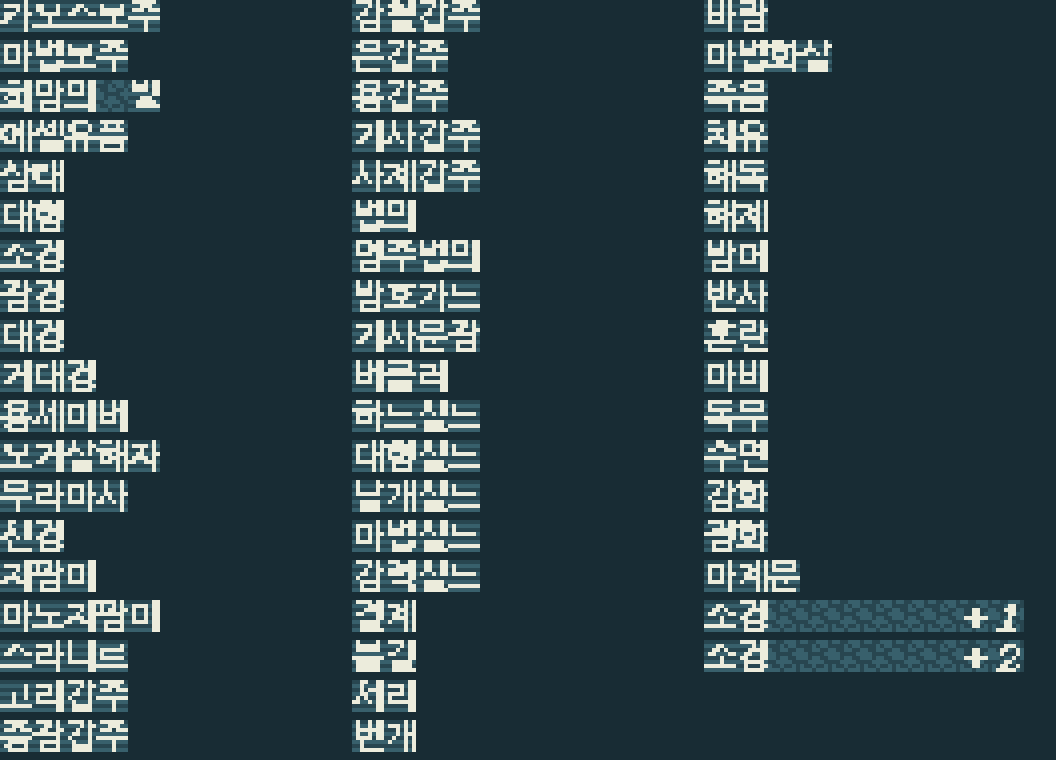
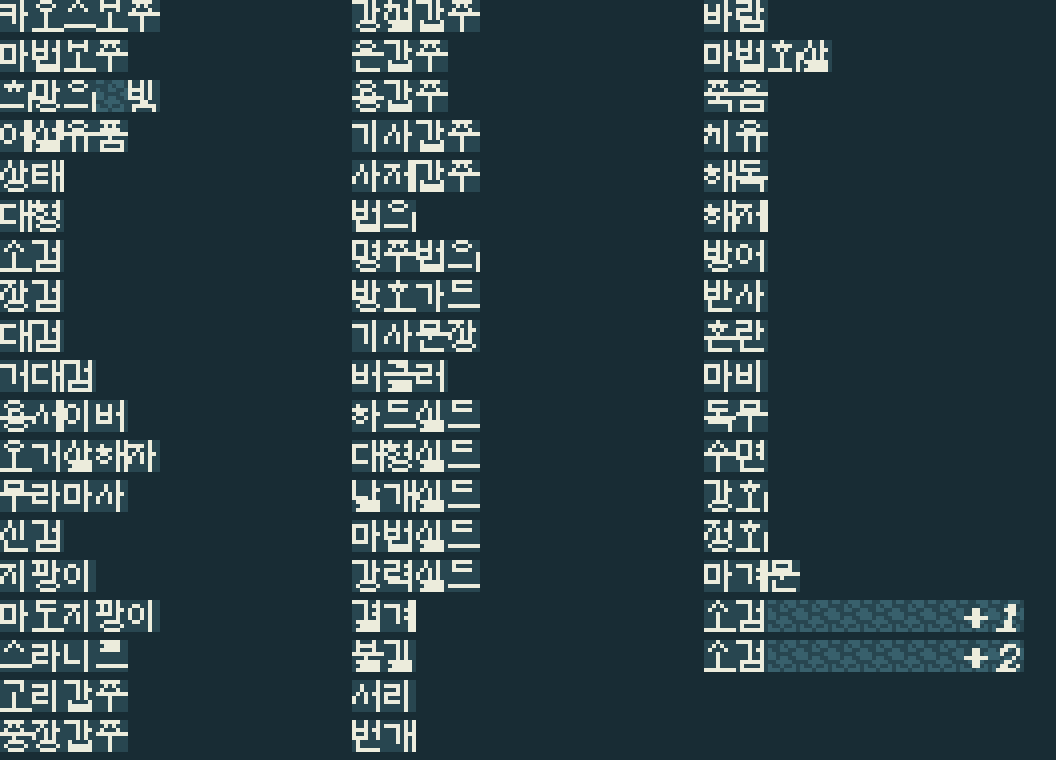
feat: 8x8 자모 조합 글꼴 (hangul8.py) — 목록 창 가독성
「마루것노 안해」는 칸 문제가 아니라 글꼴 문제였다. 「아무것도 안해」다.

TrueType 을 8px 로 내리면 받침 ㅇ 이 두 픽셀 높이라 속공간을 낼 수 없다.
후보 8개(글꼴 4 x 크기 x 문턱)를 실제 이름으로 나란히 그려 봤지만 어느
조합도 못 넘었고, 3x3 채워진 덩어리의 가운데를 뚫는 후처리도 그 덩어리가
2행뿐이라 걸리는 곳이 없었다. 래스터로는 안 되는 문제였다.

- hangul8.py — 초성 두 벌(세로모음용 4x5 / 가로모음용 5x3), 종성 6x3 한 벌.
  받침 유무 x 모음 방향으로 네 꼴 조합. 섞임모음은 가로 부분을 x<6 으로
  자르고 x=7 에 세로줄. 초성 19 · 중성 21 · 종성 27 전부 그렸다.
- 대조: 밤어->방어 · 삼태->상태 · 마루것노->아무것도 · 보두 노맘->모두 도망
  봄세이버->용세이버 · 자팜미->지팡이 · 하느싣느->하드실드 · 곰격하기->공격하기
- 한 번 틀린 자리: ㅡ 의 가로줄을 y0 에 뒀더니 초성 바로 밑에 붙어 「의」가
  ㅇ 에 줄 하나 그은 꼴이 됐다. ㅡ 는 y1-1 이 맞다.
- 배경을 단색으로. 압축이 크게 남아(456/770) 선택지가 넓어졌고, 나란히
  그려 보니 가로줄이 한글 가로획과 섞여 읽기를 방해한다.
- patch_hwfont 의 PIL import 제거 (이제 안 쓴다)

검사 12층 · 역검증 18단 · test_kr 전부 통과. v0.9.2.

Changed region(s): [[0.3125, 0.0, 0.4688, 0.9987], [0.0, 0.0, 0.1562, 0.9987], [0.6562, 0.0, 0.7812, 0.9079]]

diff --git a/darkhalf-kr/hangul8.py b/darkhalf-kr/hangul8.py
@@ -1,0 +1,168 @@
+#!/usr/bin/env python3
+"""8x8 한글 조합 글꼴 — 목록 창(반각)용.
+
+## 왜 손으로 그리나
+
+TrueType 을 8px 로 래스터하면 받침 ㅇ 이 두 픽셀 높이가 되어 속공간을 낼 수
+없다. 「방어」가 「밤어」, 「아무것도」가 「마루것노」로 읽힌다 (PROGRESS
+4.37.7 / 4.40.2). 후보 8개를 재 봤지만 어느 글꼴·문턱으로도 안 됐다.
+
+8x8 은 자모를 직접 그려 조합해야 한다. 옛 도스 한글 8x8 이 쓰던 방식이다.
+
+## 배치
+
+세로모음(ㅏㅐㅑㅒㅓㅔㅕㅖㅣ)과 가로모음(ㅗㅛㅜㅠㅡ)에 따라, 그리고 받침
+유무에 따라 네 꼴이 나온다. 섞임모음(ㅘㅙㅚㅝㅞㅟㅢ)은 가로모음 자리에
+그리고 오른쪽에 세로줄을 세운다.
+
+    V 민글자   초성 (0,1)-(3,5)   중성 x=4..7 전체 높이
+    V 받침     초성 (0,0)-(3,4)   중성 x=4..7 y=0..4   종성 y=5..7
+    H 민글자   초성 (1,0)-(5,2)   중성 y=3..7
+    H 받침     초성 (1,0)-(5,2)   중성 y=3..4          종성 y=5..7
+"""
+import sys, os
+sys.path.insert(0, os.path.dirname(os.path.abspath(__file__)))
+
+CHO  = "ㄱㄲㄴㄷㄸㄹㅁㅂㅃㅅㅆㅇㅈㅉㅊㅋㅌㅍㅎ"
+JUNG = "ㅏㅐㅑㅒㅓㅔㅕㅖㅗㅘㅙㅚㅛㅜㅝㅞㅟㅠㅡㅢㅣ"
+JONG = " ㄱㄲㄳㄴㄵㄶㄷㄹㄺㄻㄼㄽㄾㄿㅀㅁㅂㅄㅅㅆㅇㅈㅊㅋㅌㅍㅎ"
+VOW_V = set("ㅏㅐㅑㅒㅓㅔㅕㅖㅣ")
+VOW_H = set("ㅗㅛㅜㅠㅡ")
+
+def _b(rows): return [r.replace('.', ' ') for r in rows]
+
+# --- 초성: 세로모음용 4x5 ---
+CV = {
+ 'ㄱ': ["####","...#","...#","...#","...#"],
+ 'ㄴ': ["#...","#...","#...","#...","####"],
+ 'ㄷ': ["####","#...","#...","#...","####"],
+ 'ㄹ': ["####","...#","####","#...","####"],
+ 'ㅁ': ["####","#..#","#..#","#..#","####"],
+ 'ㅂ': ["#..#","#..#","####","#..#","####"],
+ 'ㅅ': ["..#.","..#.",".#.#","#..#","#..#"],
+ 'ㅇ': [".##.","#..#","#..#","#..#",".##."],
+ 'ㅈ': ["####","..#.",".#.#","#..#","#..#"],
+ 'ㅊ': [".#..","####",".#.#","#..#","#..#"],
+ 'ㅋ': ["####","...#","####","...#","...#"],
+ 'ㅌ': ["####","#...","####","#...","####"],
+ 'ㅍ': ["####",".#.#",".#.#","####","...."],
+ 'ㅎ': [".#..","####",".##.","#..#",".##."],
+ 'ㄲ': ["####","#.##","#..#","#..#","#..#"],
+ 'ㄸ': ["####","#.#.","#.#.","#.#.","####"],
+ 'ㅃ': ["#.##","#.##","####","#.##","####"],
+ 'ㅆ': [".#.#","#.##","#.##","#.##","#.##"],
+ 'ㅉ': ["####","#.#.",".#.#","#..#","#..#"],
+}
+# --- 초성: 가로모음용 5x3 ---
+CH = {
+ 'ㄱ': ["#####","....#","....#"],
+ 'ㄴ': ["#....","#....","#####"],
+ 'ㄷ': ["#####","#....","#####"],
+ 'ㄹ': ["#####",".####","#####"],
+ 'ㅁ': ["#####","#...#","#####"],
+ 'ㅂ': ["#...#","#####","#...#"],
+ 'ㅅ': ["..#..",".#.#.","#...#"],
+ 'ㅇ': [".###.","#...#",".###."],
+ 'ㅈ': ["#####",".#.#.","#...#"],
+ 'ㅊ': ["..#..","#####","#...#"],
+ 'ㅋ': ["#####","..###","....#"],
+ 'ㅌ': ["#####","####.","#####"],
+ 'ㅍ': ["#####",".#.#.","#####"],
+ 'ㅎ': ["..#..","#####",".#.#."],
+ 'ㄲ': ["##.##",".#..#",".#..#"],
+ 'ㄸ': ["#####","#.#..","#####"],
+ 'ㅃ': ["#.#.#","#####","#####"],
+ 'ㅆ': [".#.#.","#.#.#","#...#"],
+ 'ㅉ': ["#####","#.#.#","#...#"],
+}
+# --- 종성: 6x3 (가운데 정렬) ---
+JG = {
+ 'ㄱ': ["######",".....#",".....#"],
+ 'ㄴ': ["#.....","#.....","######"],
+ 'ㄷ': ["######","#.....","######"],
+ 'ㄹ': ["######",".#####","######"],
+ 'ㅁ': ["######","#....#","######"],
+ 'ㅂ': ["#....#","######","######"],
+ 'ㅅ': ["..##..",".#..#.","#....#"],
+ 'ㅇ': [".####.","#....#",".####."],
+ 'ㅈ': ["######",".#..#.","#....#"],
+ 'ㅊ': ["..##..","######","#....#"],
+ 'ㅋ': ["######","..####",".....#"],
+ 'ㅌ': ["######","#####.","######"],
+ 'ㅍ': ["######",".#..#.","######"],
+ 'ㅎ': ["..##..","######",".####."],
+ 'ㄲ': ["##.###","...#.#","...#.#"],
+ 'ㅆ': [".#..#.","#.##.#","#.#..#"],
+ 'ㄳ': ["###.##","..#.#.","..##.#"],
+ 'ㄵ': ["#..###","#....#","###..#"],
+ 'ㄶ': ["#..#.#","#.####","###.#."],
+ 'ㄺ': ["###.##",".#..-#","###..#"],
+ 'ㄻ': ["###.##",".#.#.#","###.##"],
+ 'ㄼ': ["###..#",".#.###","######"],
+ 'ㄽ': ["###.#.",".#.#.#","###..#"],
+ 'ㄾ': ["###.##",".#.##.","######"],
+ 'ㄿ': ["###.##",".#.#.#","###.##"],
+ 'ㅀ': ["###.#.",".#.###","####.."],
+ 'ㅄ': ["#.#..#","####.#","####.#"],
+}
+
+def _vow(ch, y0, y1, jong):
+    """중성 픽셀 (x,y) 목록. y0..y1 은 쓸 수 있는 세로 범위."""
+    p = []
+    if ch in VOW_V:
+        stem = 6 if ch in "ㅓㅔㅕㅖ" else 5
+        for y in range(y0, y1+1): p.append((stem, y))
+        mid = (y0 + y1) // 2
+        if ch in "ㅏㅐㅑㅒ":
+            b = [mid] if ch in "ㅏㅐ" else [mid-1, mid+1]
+            for yy in b: p += [(stem+1, yy)]
+        if ch in "ㅓㅔㅕㅖ":
+            b = [mid] if ch in "ㅓㅔ" else [mid-1, mid+1]
+            for yy in b: p += [(stem-1, yy)]
+        if ch in "ㅐㅒㅔㅖ":
+            for y in range(y0, y1+1): p.append((7, y))
+        return p
+    if ch in VOW_H:
+        # ㅗㅛ 는 줄이 아래, ㅜㅠ 는 위. ㅡ 는 가운데보다 조금 아래에 둔다 —
+        # y0 에 두면 초성 바로 밑에 붙어 「의」가 ㅇ 에 줄 하나 그은 꼴이 된다.
+        bar = y1 if ch in "ㅗㅛ" else (y0 if ch != 'ㅡ' else max(y0, y1 - 1))
+        for x in range(0, 8): p.append((x, bar))
+        if ch == 'ㅡ': return p
+        stems = [3] if ch in "ㅗㅜ" else [2, 5]
+        for x in stems:
+            for y in ((range(y0, bar)) if ch in "ㅗㅛ" else range(bar+1, y1+1)):
+                p.append((x, y))
+        return p
+    # 섞임 — 가로 부분 + 오른쪽 세로줄
+    base = {'ㅘ':'ㅗ','ㅙ':'ㅗ','ㅚ':'ㅗ','ㅝ':'ㅜ','ㅞ':'ㅜ','ㅟ':'ㅜ','ㅢ':'ㅡ'}[ch]
+    p = [(x, y) for (x, y) in _vow(base, y0, y1, jong) if x < 6]
+    for y in range(y0, y1+1): p.append((7, y))
+    return p
+
+
+def glyph(ch):
+    """8x8 불리언 격자 (행 우선). 한글 음절만."""
+    g = [[False]*8 for _ in range(8)]
+    o = ord(ch) - 0xAC00
+    if not (0 <= o < 11172): return g
+    cho, jung, jong = CHO[o//588], JUNG[(o%588)//28], JONG[o%28]
+    def blit(art, x0, y0):
+        for dy, row in enumerate(art):
+            for dx, c in enumerate(row):
+                if c == '#' and 0 <= x0+dx < 8 and 0 <= y0+dy < 8:
+                    g[y0+dy][x0+dx] = True
+    if jung in VOW_V:
+        if jong == ' ':
+            blit(CV[cho], 0, 1); vy = (0, 7)
+        else:
+            blit(CV[cho], 0, 0); vy = (0, 4)
+        for x, y in _vow(jung, vy[0], vy[1], jong != ' '):
+            if 0 <= x < 8 and 0 <= y < 8: g[y][x] = True
+    else:
+        blit(CH[cho], 1, 0)
+        vy = (3, 7) if jong == ' ' else (3, 4)
+        for x, y in _vow(jung, vy[0], vy[1], jong != ' '):
+            if 0 <= x < 8 and 0 <= y < 8: g[y][x] = True
+    if jong != ' ':
+        blit(JG.get(jong, JG['ㅇ']), 1, 5)
+    return g

diff --git a/darkhalf-kr/patch_hwfont.py b/darkhalf-kr/patch_hwfont.py
@@ -59,7 +59,6 @@
 import sys, os
 sys.path.insert(0, os.path.dirname(os.path.abspath(__file__)))
 import numpy as np
-from PIL import Image, ImageDraw, ImageFont
 import gfx, patch_menu
 
 ENTRY = 0
@@ -71,21 +70,26 @@ BG_CODE = 0x20          # 공백 글리프 = 순수 배경 (확인용)
 INK = 3
 
 # 배경 후보. 앞에서부터 시도해 칸에 들어가는 첫 것을 쓴다.
-BG_KINDS = ("가로줄", "단색")
-
-# 8x8 에 한글을 넣으면 ㅇ·ㅎ 의 속공간이 메워진다. 후보 8개를 실제 이름으로
-# 나란히 그려 골랐다 (malgunbd/malgun/NanumGothic/NanumBarunGothic x 크기 x 문턱).
-# NanumGothic 9px 문턱 60 이 가장 낫다 — 무라마사·독무·죽음·용세이버·마계문·
-# 결계가 제대로 읽힌다. malgunbd 는 「무라마사」가 「부라마사」로, 「오거」가
-# 「모거」로 보였다.
 #
-# 남는 한계: **받침 ㅇ 은 두 픽셀 높이라 속공간을 낼 수 없다.** 그래서 「방어」가
-# 「밤어」, 「강화」가 「감화」, 「상태」가 「삼태」로 보인다. 3x3 이상 채워진
-# 덩어리의 가운데를 뚫는 후처리를 시험했지만 그 덩어리 자체가 2행뿐이라
-# 걸리는 곳이 없었다. 제대로 고치려면 8x8 자모를 손으로 그려 조합해야 한다.
-FONT = "/usr/share/fonts/truetype/nanum/NanumGothic.ttf"
-SIZE = 9
-THR = 60
+# 한때 「가로줄」(행마다 색 1·2 교대)을 먼저 뒀다. 원본 노이즈 디더에 가장
+# 가까우면서 칸에 들어가는 것이 그것뿐이었기 때문이다. 자모 조합으로 바꾸니
+# 「단색」도 넉넉히 들어가고(456/770), **가로줄이 한글의 가로획과 섞여**
+# 읽기를 방해한다는 것이 나란히 그려 보니 분명했다. 단색을 먼저 쓴다.
+BG_KINDS = ("단색", "가로줄")
+
+# 글리프는 **자모를 손으로 그려 조합한다** (hangul8.py).
+#
+# 한때 TrueType 을 8px 로 래스터했다. 후보 8개(malgunbd/malgun/NanumGothic/
+# NanumBarunGothic x 크기 x 문턱)를 실제 이름으로 나란히 그려 NanumGothic
+# 9px/60 을 골랐지만, 어느 조합으로도 **받침 ㅇ 이 두 픽셀 높이라 속공간을
+# 낼 수 없었다.** 「방어」가 「밤어」, 「아무것도」가 「마루것노」, 「모두
+# 도망」이 「보두 노맘」으로 읽혔다 (image/전투화면-선택지깨짐.png).
+#
+# 3x3 이상 채워진 덩어리의 가운데를 뚫는 후처리도 시험했는데, 그 덩어리가
+# 2행뿐이라 걸리는 곳이 아예 없었다. 래스터로는 안 되는 문제였다.
+#
+# 자모 조합으로 바꾸니 전부 살아났다 — 방어 · 상태 · 아무것도 · 모두 도망 ·
+# 지팡이 · 용세이버. 대조는 PROGRESS 4.42.
 
 _bgcache = None
 
@@ -123,15 +127,10 @@ def background(kind):
 
 def render(ch, kind=BG_KINDS[0]):
     """8x8 색인 배열. 배경 위에 색 3 으로 획을 얹는다."""
+    import hangul8
     g = background(kind)
     if ch == " ": return g
-    f = ImageFont.truetype(FONT, SIZE)
-    im = Image.new("L", (8, 8), 0)
-    d = ImageDraw.Draw(im)
-    bb = d.textbbox((0, 0), ch, font=f)
-    d.text(((8 - (bb[2] - bb[0])) / 2 - bb[0],
-            (8 - (bb[3] - bb[1])) / 2 - bb[1]), ch, 255, font=f)
-    g[np.array(im) > THR] = INK
+    g[np.array(hangul8.glyph(ch))] = INK
     return g
 
 

diff --git a/README.md b/README.md
@@ -11,10 +11,10 @@
 
 ---
 
-## 버전 — 현재 `v0.9.1`
+## 버전 — 현재 `v0.9.2`
 
 **완성(모든 화면이 한국어이고 실기 통과)을 `v1.0.0`으로 봅니다.** 지금은
-`v0.9.1` 입니다. 대사·UI·메뉴·오프닝·컷신·아이템/장비/마법 이름은 끝났고,
+`v0.9.2` 입니다. 대사·UI·메뉴·오프닝·컷신·아이템/장비/마법 이름은 끝났고,
 남은 것은 몬스터 이름표와 전체 플레이 검증입니다.
 
 | 영역 | 비중 | 진행 | 남은 일 |
@@ -63,7 +63,7 @@
 | 설정 화면 | 12항목 (`0x2FF706`) — 원문과 칸·바이트 동일, **실기 확인** |
 | 오프닝 컷신 | **23줄 전문** (`0x9ED6E`) — 스프라이트 스크립트, 글리프 83자 |
 | 컷신 「復活節第N日」 | **26줄 전문** (`0x0f0b92`) — BG 타일맵, 16×16 글꼴 90칸, **실기 확인** |
-| 목록 창 (아이템·장비·마법) | **98엔트리 + 메뉴 라벨 전부 단일바이트** — 반각 8×8 폰트 110자 |
+| 목록 창 (아이템·장비·마법) | **98엔트리 + 메뉴 라벨 전부 단일바이트** — 반각 8×8 **자모 조합 글꼴** 110자 |
 | 롬 | 3MB → **4MB** (엔진 패치 기본 적용) |
 | 검사 | 텍스트 **12층** + 삽입 역검증 **18단** + `test_kr` 10군 전부 통과 |
 
@@ -73,7 +73,53 @@
 
 ---
 
-## 최근 작업 (2026-09-10) — 컷신 「復活節第N日」 해결
+## 최근 작업 — 8×8 한글은 자모를 손으로 그려야 했습니다
+
+![목록 한글](image/목록한글.png)
+
+「마루것노 안해」는 칸 문제가 아니라 **글꼴 문제**였습니다 — 「아무것도 안해」가
+그렇게 읽힌 겁니다.
+
+### 래스터로는 안 되는 문제였습니다
+
+TrueType 을 8px 로 내리면 **받침 ㅇ 이 두 픽셀 높이라 속공간을 낼 수 없습니다.**
+후보 8개(malgunbd·malgun·NanumGothic·NanumBarunGothic × 크기 × 문턱)를 실제
+이름으로 나란히 그려 봤지만 어느 조합도 이걸 못 넘었습니다. 3×3 이상 채워진
+덩어리의 가운데를 뚫는 후처리도 시험했는데 **그 덩어리 자체가 2행뿐이라 걸리는
+곳이 아예 없었습니다.**
+
+### 자모를 그려 조합합니다 (`hangul8.py`)
+
+옛 도스 한글 8×8 이 쓰던 방식입니다. 초성은 두 벌만 그립니다 — 세로모음용
+4×5 와 가로모음용 5×3. 종성은 6×3 한 벌. 네 꼴로 조합합니다.
+
+```
+V 민글자   초성 (0,1)-(3,5)   중성 x=4..7 전체 높이
+V 받침     초성 (0,0)-(3,4)   중성 x=4..7 y=0..4   종성 y=5..7
+H 민글자   초성 (1,0)-(5,2)   중성 y=3..7
+H 받침     초성 (1,0)-(5,2)   중성 y=3..4          종성 y=5..7
+```
+
+| | 기존 (TrueType) | 자모 조합 |
+|---|---|---|
+| 방어 | 밤어 | **방어** |
+| 상태 | 삼태 | **상태** |
+| 아무것도 | 마루것노 | **아무것도** |
+| 모두 도망 | 보두 노맘 | **모두 도망** |
+| 용세이버 | 봄세이버 | **용세이버** |
+| 지팡이 | 자팜미 | **지팡이** |
+| 하드실드 | 하느싣느 | **하드실드** |
+| 공격하기 | 곰격하기 | **공격하기** |
+
+### 배경도 단색으로
+
+압축이 크게 남아서(456/770) 선택지가 넓어졌습니다. 나란히 그려 보니 **가로줄이
+한글의 가로획과 섞여** 읽기를 방해합니다. 원본 노이즈 디더와는 멀어지지만 이
+창의 목적은 이름을 읽는 것이라 단색을 먼저 씁니다.
+
+---
+
+## 2026-09-10 — 컷신 「復活節第N日」 해결
 
 ![컷신 한글](image/컷신한글.png)
 
@@ -1124,11 +1170,6 @@
 (그것도 아이템 이름 품질을 통째로 내주는 값입니다). 먼저 전투 화면 한 장으로
 **렌더러가 타일 직접인지** 확정해야 합니다 — 대사 렌더러라면 강제가 아예
 필요 없습니다 (PROGRESS 4.39).
-
-**8×8 한글의 받침 ㅇ** — 두 픽셀 높이라 속공간을 낼 수 없어 「방어」가 「밤어」,
-「강화」가 「감화」로 보입니다. 글꼴·문턱 후보 8개를 실제 이름으로 나란히 그려
-NanumGothic 9px/60 을 골랐지만 이 한계는 남습니다. 제대로 고치려면 8×8 자모를
-손으로 그려 조합해야 합니다.
 
 ---
 

diff --git a/darkhalf-kr/PROGRESS.md b/darkhalf-kr/PROGRESS.md
@@ -3909,3 +3909,72 @@ FFFE <n16> <tile>  이 타일부터 n개를 1씩 증가시키며 쓴다
 
 역검증 **[18]** — 타일맵을 되읽어 한국어와 맞는지 26줄 전부 대조한다.
 `[5]`(허용 영역 밖 변경)에 `cutscene.written_range()` 를 넣었다.
+
+## 4.42 8x8 한글은 자모를 손으로 그려야 한다 (hangul8.py)
+
+`image/전투화면-선택지깨짐.png` 의 「마루것노 안해」는 칸 문제가 아니라
+**글꼴 문제**였다. 「아무것도 안해」가 그렇게 읽힌 것이다.
+
+### 4.42.1 래스터로는 안 되는 문제였다
+
+TrueType 을 8px 로 내리면 **받침 ㅇ 이 두 픽셀 높이라 속공간을 낼 수 없다.**
+
+```
+방어 -> 밤어     강화 -> 감화     상태 -> 삼태
+아무것도 -> 마루것노     모두 도망 -> 보두 노맘     용세이버 -> 봄세이버
+```
+
+후보 8개(malgunbd·malgun·NanumGothic·NanumBarunGothic x 크기 x 문턱)를 실제
+이름으로 나란히 그려 봤지만 어느 조합도 이걸 못 넘었다. 3x3 이상 채워진
+덩어리의 가운데를 뚫는 후처리도 시험했는데 **그 덩어리 자체가 2행뿐이라
+걸리는 곳이 아예 없었다.**
+
+### 4.42.2 자모 조합 (옛 도스 한글 8x8 방식)
+
+초성·중성·종성을 각각 그려 놓고 네 꼴로 조합한다.
+
+```
+V 민글자   초성 (0,1)-(3,5)    중성 x=4..7 전체 높이
+V 받침     초성 (0,0)-(3,4)    중성 x=4..7 y=0..4    종성 y=5..7
+H 민글자   초성 (1,0)-(5,2)    중성 y=3..7
+H 받침     초성 (1,0)-(5,2)    중성 y=3..4           종성 y=5..7
+```
+
+초성은 두 벌만 그린다 — 세로모음용 4x5(`CV`)와 가로모음용 5x3(`CH`).
+종성은 6x3 한 벌(`JG`). 섞임모음(ㅘㅙㅚㅝㅞㅟㅢ)은 가로 부분을 x<6 으로
+자르고 x=7 에 세로줄을 세운다.
+
+지금 팔레트가 쓰는 것은 초성 15 · 중성 14 · 종성 9 자지만 전부 그려 뒀다.
+
+### 4.42.3 대조
+
+```
+        기존(TrueType)   자모 조합
+방어         밤어           방어
+상태         삼태           상태
+아무것도     마루것노       아무것도
+모두 도망    보두 노맘      모두 도망
+용세이버     봄세이버       용세이버
+지팡이       자팜미         지팡이
+하드실드     하느싣느       하드실드
+공격하기     곰격하기       공격하기
+```
+
+### 4.42.4 한 번 틀린 자리 — ㅡ 의 가로줄
+
+`bar = y1 if ㅗㅛ else y0` 로 두었더니 **ㅡ 의 줄이 초성 바로 밑에 붙어**
+「의」가 ㅇ 에 줄 하나 그은 꼴이 됐다. ㅗㅛ 는 아래, ㅜㅠ 는 위가 맞지만
+ㅡ 는 가운데보다 조금 아래(`y1-1`)에 둬야 한다.
+
+### 4.42.5 배경도 단색으로 바꿨다
+
+압축이 크게 남아서(456/770) 배경 선택지가 넓어졌다. 나란히 그려 보니
+**가로줄이 한글의 가로획과 섞여** 읽기를 방해한다. 단색을 먼저 쓴다.
+
+```
+        블록1      블록2      블록3
+가로줄  601/688   551/770   665/810
+단색    555/688   456/770   607/810   <- 채택
+```
+
+원본 노이즈 디더와는 멀어지지만, 이 창의 목적은 이름을 읽는 것이다.
